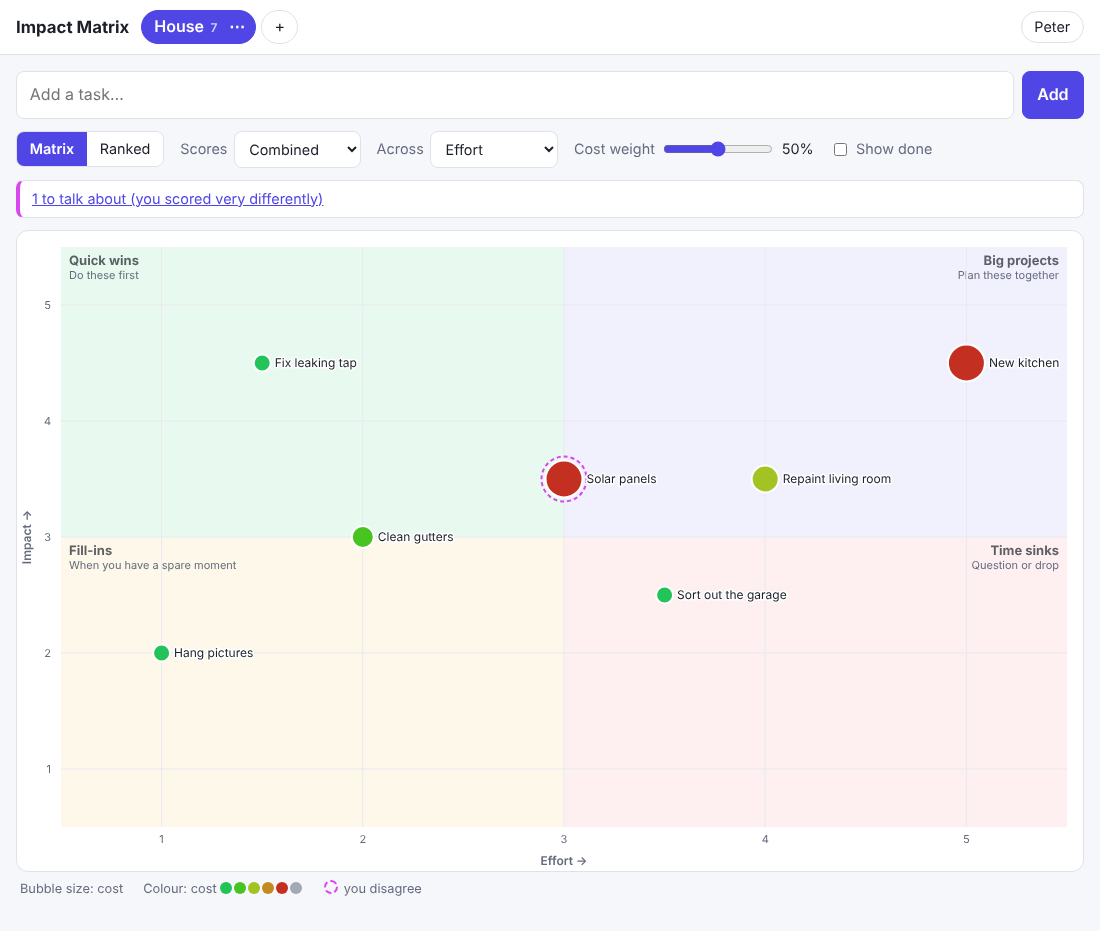
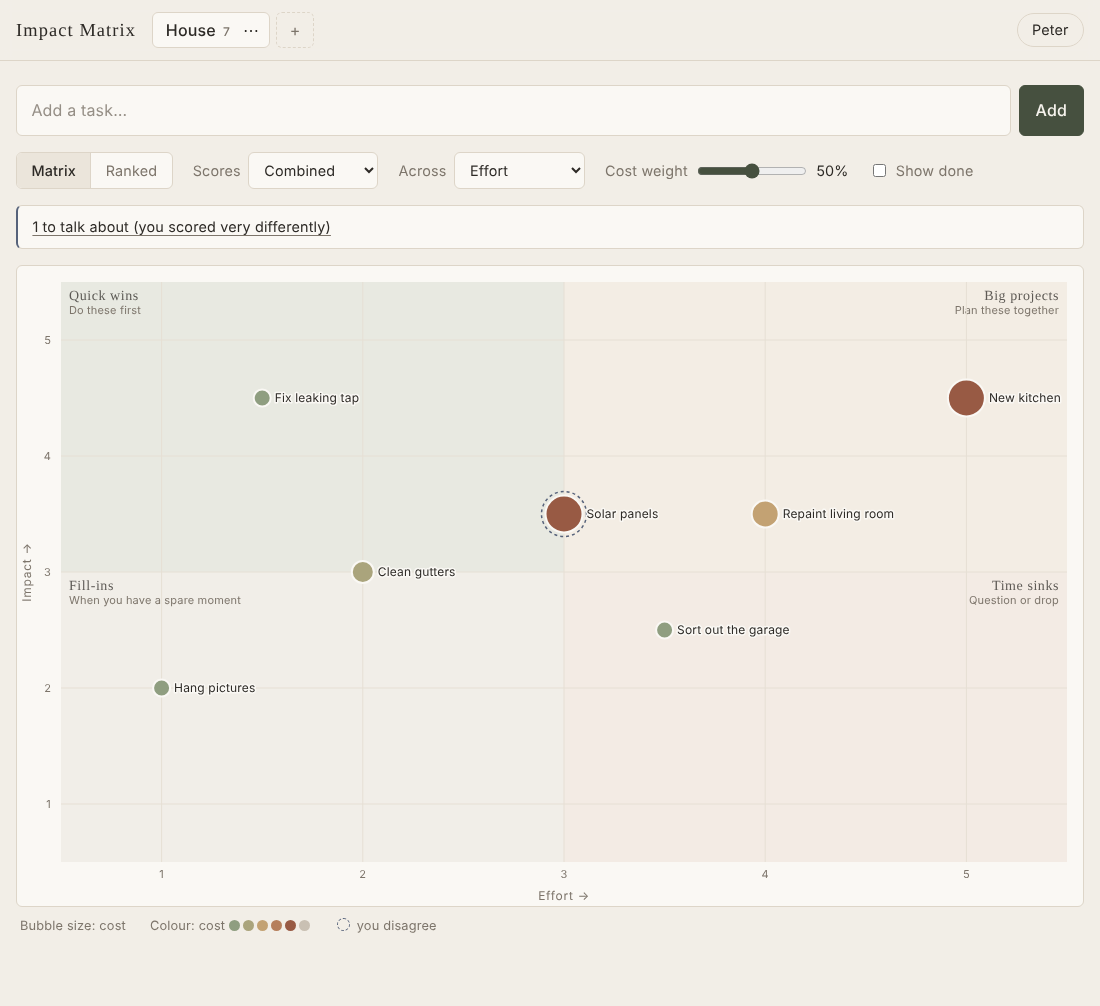
Restyle Impact Matrix in a Japandi aesthetic
Warm linen and rice-paper neutrals, sumi-ink text, a moss-charcoal
accent, thin lines, softer corners and serif headings. Cost is now
shown as an earth-tone scale from sage (cheap) to terracotta
(expensive) via CSS variables, so it adapts to dark mode. Updated the
icon, theme colour and README screenshots to match.

Claude-Session: https://claude.ai/code/session_017UNPLZKTZdfq9cyegrhye5

diff --git a/impact-matrix/public/styles.css b/impact-matrix/public/styles.css
@@ -1,39 +1,56 @@
+/* Japandi: warm natural neutrals, charcoal ink, muted earth accents,
+   thin lines, generous whitespace, quiet serif headings. */
 :root {
-  --bg: #f6f7fb;
-  --surface: #ffffff;
-  --text: #1c1f2a;
-  --muted: #646b7d;
-  --border: #dfe2ea;
-  --accent: #4f46e5;
-  --accent-text: #ffffff;
-  --danger: #c62828;
-  --grid: #e7e9f0;
-  --unscored: #a3a8b5;
-  --q-quickWin: rgba(34, 197, 94, 0.10);
-  --q-bigProject: rgba(79, 70, 229, 0.08);
-  --q-fillIn: rgba(234, 179, 8, 0.09);
-  --q-timeSink: rgba(239, 68, 68, 0.08);
-  --debate: #d946ef;
-  --radius: 12px;
+  --bg: #f2eee7;          /* linen */
+  --surface: #faf8f4;     /* rice paper */
+  --sunken: #ebe5db;      /* oat */
+  --text: #2d2a26;        /* sumi ink */
+  --muted: #7d756b;       /* stone */
+  --border: #ddd5c8;
+  --accent: #46503f;      /* moss charcoal */
+  --accent-text: #f7f4ee;
+  --danger: #9c4a36;
+  --grid: #e6dfd4;
+  --unscored: #c9c0b3;
+  --debate: #56627a;      /* aizome indigo */
+  --cost-1: #8f9e80;      /* sage */
+  --cost-2: #aaa47c;      /* olive */
+  --cost-3: #c3a273;      /* oak */
+  --cost-4: #b67f5c;      /* clay */
+  --cost-5: #985a44;      /* terracotta */
+  --q-quickWin: rgba(143, 158, 128, 0.16);
+  --q-bigProject: rgba(195, 162, 115, 0.12);
+  --q-fillIn: rgba(201, 192, 179, 0.18);
+  --q-timeSink: rgba(182, 127, 92, 0.10);
+  --radius: 6px;
+  --serif: "Iowan Old Style", "Palatino Linotype", Palatino, "Book Antiqua", Georgia, serif;
+  --sans: "Avenir Next", Avenir, "Segoe UI", system-ui, -apple-system, Roboto, sans-serif;
   color-scheme: light;
 }
 
 @media (prefers-color-scheme: dark) {
   :root {
-    --bg: #12141b;
-    --surface: #1b1e28;
-    --text: #e8eaf1;
-    --muted: #9aa1b2;
-    --border: #2d3140;
-    --accent: #818cf8;
-    --accent-text: #0e1020;
-    --danger: #ef5350;
-    --grid: #262a37;
-    --unscored: #5f6577;
-    --q-quickWin: rgba(34, 197, 94, 0.12);
-    --q-bigProject: rgba(129, 140, 248, 0.12);
-    --q-fillIn: rgba(234, 179, 8, 0.10);
-    --q-timeSink: rgba(239, 68, 68, 0.10);
+    --bg: #1c1a17;
+    --surface: #24211d;
+    --sunken: #2c2824;
+    --text: #ebe5da;
+    --muted: #a29889;
+    --border: #39342e;
+    --accent: #b3bea5;
+    --accent-text: #1c1a17;
+    --danger: #d38a72;
+    --grid: #322d28;
+    --unscored: #5e574e;
+    --debate: #93a1bd;
+    --cost-1: #9aab8a;
+    --cost-2: #b5ae84;
+    --cost-3: #cdaa78;
+    --cost-4: #c58d69;
+    --cost-5: #b36c53;
+    --q-quickWin: rgba(154, 171, 138, 0.12);
+    --q-bigProject: rgba(205, 170, 120, 0.09);
+    --q-fillIn: rgba(162, 152, 137, 0.08);
+    --q-timeSink: rgba(197, 141, 105, 0.09);
     color-scheme: dark;
   }
 }
@@ -45,49 +62,52 @@ body {
   margin: 0;
   background: var(--bg);
   color: var(--text);
-  font: 16px/1.45 system-ui, -apple-system, "Segoe UI", Roboto, sans-serif;
+  font: 400 16px/1.55 var(--sans);
+  letter-spacing: .01em;
   -webkit-text-size-adjust: 100%;
 }
 
-h1, h2, h3 { margin: 0 0 .5rem; line-height: 1.2; }
-h3 { font-size: .95rem; }
+h1, h2, h3 { margin: 0 0 .5rem; line-height: 1.25; font-family: var(--serif); font-weight: 500; letter-spacing: .02em; }
+h1 { font-size: 1.6rem; }
+h3 { font-size: 1rem; }
 .muted { color: var(--muted); }
 .error { color: var(--danger); }
 
-button, input, select, textarea {
-  font: inherit;
-  color: inherit;
-}
+button, input, select, textarea { font: inherit; color: inherit; letter-spacing: inherit; }
 
 button {
   cursor: pointer;
   border: 1px solid var(--border);
   background: var(--surface);
-  border-radius: 8px;
-  padding: .5rem .9rem;
+  border-radius: var(--radius);
+  padding: .5rem 1rem;
+  transition: background-color .15s, border-color .15s, color .15s;
 }
-button.primary { background: var(--accent); border-color: var(--accent); color: var(--accent-text); font-weight: 600; }
+button:hover { border-color: var(--muted); }
+button.primary { background: var(--accent); border-color: var(--accent); color: var(--accent-text); font-weight: 500; }
+button.primary:hover { filter: brightness(1.08); }
 button.danger { color: var(--danger); }
-button.link { border: 0; background: none; padding: 0; color: var(--accent); text-decoration: underline; }
-button.icon { border: 0; background: none; font-size: 1.1rem; padding: .25rem .5rem; }
-button.big { width: 100%; padding: .9rem; font-size: 1.05rem; }
+button.link { border: 0; background: none; padding: 0; color: var(--text); text-decoration: underline; text-decoration-color: var(--muted); text-underline-offset: 3px; }
+button.icon { border: 0; background: none; font-size: 1.1rem; padding: .25rem .5rem; color: var(--muted); }
+button.big { width: 100%; padding: .9rem; font-size: 1.05rem; font-family: var(--serif); }
 button:focus-visible, input:focus-visible, select:focus-visible, textarea:focus-visible, .dot:focus-visible {
-  outline: 2px solid var(--accent);
+  outline: 1.5px solid var(--accent);
   outline-offset: 2px;
 }
 
 input, select, textarea {
   border: 1px solid var(--border);
   background: var(--surface);
-  border-radius: 8px;
-  padding: .5rem .65rem;
+  border-radius: var(--radius);
+  padding: .5rem .7rem;
   min-width: 0;
 }
+input::placeholder, textarea::placeholder { color: var(--muted); opacity: .8; }
 textarea { width: 100%; resize: vertical; }
 
 .screen { min-height: 100vh; display: grid; place-items: center; padding: 16px; }
-.card { background: var(--surface); border: 1px solid var(--border); border-radius: var(--radius); padding: 1.25rem; }
-.narrow { width: 100%; max-width: 420px; display: grid; gap: .75rem; margin: 2rem auto; }
+.card { background: var(--surface); border: 1px solid var(--border); border-radius: var(--radius); padding: 1.75rem; }
+.narrow { width: 100%; max-width: 420px; display: grid; gap: 1rem; margin: 2.5rem auto; }
 .stack { display: grid; gap: .5rem; }
 .row { display: flex; gap: .5rem; }
 .row input { flex: 1; }
@@ -95,41 +115,43 @@ textarea { width: 100%; resize: vertical; }
 /* ---- top bar & tabs ---- */
 .topbar {
   position: sticky; top: 0; z-index: 5;
-  display: flex; align-items: center; gap: .75rem;
-  padding: .6rem 16px;
-  background: var(--surface);
+  display: flex; align-items: center; gap: 1rem;
+  padding: .75rem 16px;
+  background: color-mix(in srgb, var(--bg) 92%, transparent);
+  backdrop-filter: blur(6px);
   border-bottom: 1px solid var(--border);
 }
-.brand { font-size: 1.05rem; margin: 0; white-space: nowrap; }
-.tabs { display: flex; gap: .35rem; overflow-x: auto; flex: 1; scrollbar-width: none; }
-.tab { display: flex; align-items: center; border-radius: 999px; border: 1px solid var(--border); white-space: nowrap; }
-.tab button { border: 0; background: none; border-radius: 999px; padding: .3rem .75rem; }
-.tab.active { background: var(--accent); border-color: var(--accent); }
-.tab.active button { color: var(--accent-text); font-weight: 600; }
+.brand { font-size: 1.15rem; margin: 0; white-space: nowrap; letter-spacing: .06em; }
+.tabs { display: flex; gap: .4rem; overflow-x: auto; flex: 1; scrollbar-width: none; }
+.tab { display: flex; align-items: center; border-radius: var(--radius); border: 1px solid transparent; white-space: nowrap; }
+.tab button { border: 0; background: none; border-radius: var(--radius); padding: .3rem .8rem; color: var(--muted); }
+.tab.active { background: var(--surface); border-color: var(--border); }
+.tab.active button { color: var(--text); font-weight: 500; }
 .tab .tab-menu { padding: .3rem .6rem .3rem 0; }
-.tab .count { margin-left: .4rem; font-size: .75rem; opacity: .75; }
-.tab.add { border-radius: 999px; padding: .3rem .75rem; }
-.chip { border-radius: 999px; padding: .3rem .8rem; white-space: nowrap; font-size: .9rem; }
+.tab .count { margin-left: .45rem; font-size: .75rem; color: var(--muted); }
+.tab.add { border: 1px dashed var(--border); border-radius: var(--radius); padding: .3rem .8rem; background: none; color: var(--muted); }
+.chip { border-radius: 999px; padding: .3rem .9rem; white-space: nowrap; font-size: .9rem; background: none; }
 
-main { max-width: 1100px; margin: 0 auto; padding: 16px; }
+main { max-width: 1100px; margin: 0 auto; padding: 24px 16px 48px; }
 
-.add-item { display: flex; gap: .5rem; margin-bottom: .75rem; }
-.add-item input { flex: 1; padding: .7rem .8rem; }
+.add-item { display: flex; gap: .5rem; margin-bottom: 1rem; }
+.add-item input { flex: 1; padding: .75rem .9rem; }
 
 /* ---- toolbar ---- */
-.toolbar { display: flex; flex-wrap: wrap; gap: .5rem 1rem; align-items: center; margin-bottom: .75rem; font-size: .9rem; }
-.control { display: inline-flex; align-items: center; gap: .4rem; color: var(--muted); }
+.toolbar { display: flex; flex-wrap: wrap; gap: .6rem 1.25rem; align-items: center; margin-bottom: 1rem; font-size: .9rem; }
+.control { display: inline-flex; align-items: center; gap: .45rem; color: var(--muted); }
 .control select, .control input { color: var(--text); }
-.control input[type=range] { width: 110px; padding: 0; accent-color: var(--accent); }
+.control input[type=range] { width: 110px; padding: 0; border: 0; background: none; accent-color: var(--accent); }
 .control output { min-width: 3ch; color: var(--text); }
 .check input { accent-color: var(--accent); }
-.segmented { display: inline-flex; border: 1px solid var(--border); border-radius: 8px; overflow: hidden; }
-.segmented button { border: 0; border-radius: 0; padding: .4rem .8rem; }
-.segmented button.on { background: var(--accent); color: var(--accent-text); font-weight: 600; }
+.segmented { display: inline-flex; border: 1px solid var(--border); border-radius: var(--radius); overflow: hidden; background: var(--surface); }
+.segmented button { border: 0; border-radius: 0; padding: .4rem .9rem; background: none; color: var(--muted); }
+.segmented button + button { border-left: 1px solid var(--border); }
+.segmented button.on { background: var(--sunken); color: var(--text); font-weight: 500; }
 
 .banner {
-  background: var(--surface); border: 1px solid var(--border); border-left: 4px solid var(--debate);
-  border-radius: 8px; padding: .5rem .75rem; margin-bottom: .75rem; font-size: .9rem;
+  background: var(--surface); border: 1px solid var(--border); border-left: 2px solid var(--debate);
+  border-radius: var(--radius); padding: .6rem .9rem; margin-bottom: 1rem; font-size: .9rem;
 }
 
 /* ---- matrix ---- */
@@ -139,47 +161,47 @@ main { max-width: 1100px; margin: 0 auto; padding: 16px; }
 .quad.q-bigProject { fill: var(--q-bigProject); }
 .quad.q-fillIn { fill: var(--q-fillIn); }
 .quad.q-timeSink { fill: var(--q-timeSink); }
-.quad-label { font-size: 13px; font-weight: 700; fill: var(--text); opacity: .7; }
+.quad-label { font-family: var(--serif); font-size: 14px; font-weight: 500; letter-spacing: .04em; fill: var(--text); opacity: .75; }
 .quad-hint { font-size: 11px; fill: var(--muted); }
 .grid { stroke: var(--grid); stroke-width: 1; }
 .tick { font-size: 11px; fill: var(--muted); }
-.axis-label { font-size: 12px; font-weight: 600; fill: var(--muted); }
+.axis-label { font-size: 12px; letter-spacing: .06em; fill: var(--muted); }
 .dot { cursor: pointer; }
-.dot circle { stroke: var(--surface); stroke-width: 2; transition: r .15s; }
+.dot circle { stroke: var(--surface); stroke-width: 2; }
 .dot circle.no-cost { stroke: var(--muted); stroke-dasharray: 3 2; }
-.dot .debate-ring { fill: none; stroke: var(--debate); stroke-width: 2; stroke-dasharray: 4 3; }
+.dot .debate-ring { fill: none; stroke: var(--debate); stroke-width: 1.5; stroke-dasharray: 3 3; }
 .dot.done { opacity: .4; }
 .dot-label { font-size: 12px; fill: var(--text); paint-order: stroke; stroke: var(--surface); stroke-width: 3px; stroke-linejoin: round; }
-.dot:hover .dot-label { font-weight: 700; }
+.dot:hover .dot-label { font-weight: 600; }
 
-.legend { display: flex; flex-wrap: wrap; gap: .5rem 1.25rem; font-size: .8rem; color: var(--muted); padding: .5rem .25rem; }
-.legend i { display: inline-block; width: 12px; height: 12px; border-radius: 50%; margin-right: 2px; vertical-align: -1px; }
-.legend .ring-sample { border: 2px dashed var(--debate); width: 14px; height: 14px; }
+.legend { display: flex; flex-wrap: wrap; gap: .5rem 1.5rem; font-size: .8rem; color: var(--muted); padding: .6rem .25rem; }
+.legend i { display: inline-block; width: 11px; height: 11px; border-radius: 50%; margin-right: 3px; vertical-align: -1px; }
+.legend .ring-sample { border: 1.5px dashed var(--debate); width: 13px; height: 13px; }
 
-.unscored { margin-top: .5rem; }
+.unscored { margin-top: .75rem; }
 .pills { display: flex; flex-wrap: wrap; gap: .4rem; }
-.pill { border-radius: 999px; padding: .3rem .75rem; font-size: .9rem; border-style: dashed; }
+.pill { border-radius: 999px; padding: .3rem .85rem; font-size: .9rem; border-style: dashed; background: none; }
 
 /* ---- ranked list ---- */
-.ranked { list-style: none; margin: 0; padding: 0; display: grid; gap: .4rem; }
+.ranked { list-style: none; margin: 0; padding: 0; display: grid; gap: .5rem; }
 .row-item {
-  display: flex; align-items: center; gap: .6rem;
-  background: var(--surface); border: 1px solid var(--border); border-radius: 10px; padding: .55rem .75rem;
+  display: flex; align-items: center; gap: .75rem;
+  background: var(--surface); border: 1px solid var(--border); border-radius: var(--radius); padding: .75rem 1rem;
 }
-.row-item input[type=checkbox] { width: 20px; height: 20px; accent-color: var(--accent); flex: none; }
+.row-item input[type=checkbox] { width: 18px; height: 18px; accent-color: var(--accent); flex: none; }
 .row-item.done .row-title { text-decoration: line-through; color: var(--muted); }
-.row-main { flex: 1; border: 0; background: none; padding: 0; text-align: left; display: grid; gap: .15rem; min-width: 0; }
-.row-title { font-weight: 600; overflow-wrap: anywhere; }
-.row-meta { display: flex; flex-wrap: wrap; gap: .3rem .6rem; font-size: .8rem; color: var(--muted); align-items: center; }
-.score { font-weight: 700; font-variant-numeric: tabular-nums; min-width: 3.5ch; text-align: right; }
-.tag { font-size: .75rem; border-radius: 999px; padding: .05rem .5rem; color: var(--text); }
+.row-main { flex: 1; border: 0; background: none; padding: 0; text-align: left; display: grid; gap: .2rem; min-width: 0; }
+.row-title { font-weight: 500; overflow-wrap: anywhere; }
+.row-meta { display: flex; flex-wrap: wrap; gap: .3rem .7rem; font-size: .8rem; color: var(--muted); align-items: center; }
+.score { font-family: var(--serif); font-size: 1.1rem; font-variant-numeric: tabular-nums; min-width: 3.5ch; text-align: right; }
+.tag { font-size: .75rem; border-radius: 999px; padding: .05rem .55rem; color: var(--text); }
 .tag.q-quickWin { background: var(--q-quickWin); }
 .tag.q-bigProject { background: var(--q-bigProject); }
 .tag.q-fillIn { background: var(--q-fillIn); }
 .tag.q-timeSink { background: var(--q-timeSink); }
 .tag.debate { color: var(--debate); border: 1px solid var(--debate); }
-.tag.waiting { border: 1px dashed var(--border); }
-.empty { padding: 1rem; text-align: center; }
+.tag.waiting { border: 1px dashed var(--border); color: var(--muted); }
+.empty { padding: 1.5rem; text-align: center; }
 
 /* ---- dialog ---- */
 dialog {
@@ -189,38 +211,40 @@ dialog {
   border-radius: var(--radius);
   background: var(--surface);
   color: var(--text);
-  padding: 1rem;
+  padding: 1.25rem;
 }
-dialog::backdrop { background: rgba(10, 12, 20, .45); }
-#item-form { display: grid; gap: .9rem; }
+dialog::backdrop { background: rgba(45, 42, 38, .35); backdrop-filter: blur(2px); }
+#item-form { display: grid; gap: 1rem; }
 .dialog-head { display: flex; gap: .5rem; align-items: center; }
-.title-input { flex: 1; font-size: 1.15rem; font-weight: 700; }
-.score-row { display: grid; grid-template-columns: 4.2rem auto 1fr; align-items: center; gap: .6rem; margin-bottom: .4rem; }
-.dim { font-weight: 600; font-size: .9rem; }
-.pips { display: inline-flex; gap: .3rem; }
-.pips button { width: 2.2rem; height: 2.2rem; padding: 0; border-radius: 50%; font-weight: 600; }
+.title-input { flex: 1; font-family: var(--serif); font-size: 1.25rem; border-color: transparent; background: none; padding-left: 0; }
+.title-input:hover, .title-input:focus { border-color: var(--border); padding-left: .7rem; }
+.score-row { display: grid; grid-template-columns: 4.2rem auto 1fr; align-items: center; gap: .6rem; margin-bottom: .45rem; }
+.dim { font-size: .9rem; color: var(--muted); }
+.pips { display: inline-flex; gap: .35rem; }
+.pips button { width: 2.2rem; height: 2.2rem; padding: 0; border-radius: 50%; background: none; }
 .pips button.on { background: var(--accent); border-color: var(--accent); color: var(--accent-text); }
-.pips.dim-cost button.on { background: hsl(30 80% 50%); border-color: hsl(30 80% 50%); color: #fff; }
+.pips.dim-cost button.on { background: var(--cost-4); border-color: var(--cost-4); color: #fff; }
 .pip-label { font-size: .8rem; }
-.others { font-size: .9rem; display: grid; gap: .25rem; }
+.others { font-size: .9rem; display: grid; gap: .3rem; padding: .75rem .9rem; background: var(--sunken); border-radius: var(--radius); }
 .others p { margin: 0; }
-.field { display: grid; gap: .3rem; font-size: .9rem; color: var(--muted); }
-.field select, .field textarea, .field input { color: var(--text); }
+.others strong { font-weight: 500; }
+.others .tag { justify-self: start; }
+.field { display: grid; gap: .3rem; font-size: .85rem; color: var(--muted); }
+.field select, .field textarea, .field input { color: var(--text); font-size: 1rem; }
 .money { display: flex; align-items: center; gap: .4rem; }
 .money input { flex: 1; }
-.dialog-foot { display: flex; justify-content: space-between; gap: .5rem; }
+.dialog-foot { display: flex; justify-content: space-between; gap: .5rem; border-top: 1px solid var(--border); padding-top: 1rem; }
 
 .toast {
   position: fixed; left: 50%; bottom: 20px; transform: translateX(-50%);
-  background: var(--text); color: var(--bg); padding: .6rem 1rem; border-radius: 8px; z-index: 20;
+  background: var(--text); color: var(--bg); padding: .6rem 1.1rem; border-radius: var(--radius); z-index: 20;
   max-width: calc(100vw - 32px);
 }
 
 @media (max-width: 600px) {
   .brand { display: none; }
-  .toolbar { font-size: .85rem; }
+  .toolbar { font-size: .85rem; gap: .5rem 1rem; }
   .score-row { grid-template-columns: 3.6rem auto; }
   .pip-label { grid-column: 2; margin-top: -.25rem; }
   .pips button { width: 2.4rem; height: 2.4rem; }
 }
-.others .tag { justify-self: start; }

diff --git a/impact-matrix/public/app.js b/impact-matrix/public/app.js
@@ -116,9 +116,8 @@ function money(amount) {
 
 function costColor(cost) {
   if (cost == null) return 'var(--unscored)';
-  // green (cheap) → amber → red (expensive)
-  const hue = 140 - ((cost - 1) / 4) * 135;
-  return `hsl(${hue} 70% 45%)`;
+  // Earth tones from sage (cheap) to terracotta (expensive); averages round.
+  return `var(--cost-${Math.min(5, Math.max(1, Math.round(cost)))})`;
 }
 
 let toastTimer;

diff --git a/impact-matrix/public/index.html b/impact-matrix/public/index.html
@@ -4,7 +4,7 @@
   <meta charset="utf-8">
   <meta name="viewport" content="width=device-width, initial-scale=1, viewport-fit=cover">
   <title>Impact Matrix</title>
-  <meta name="theme-color" content="#4f46e5">
+  <meta name="theme-color" content="#f2eee7">
   <link rel="manifest" href="manifest.webmanifest">
   <link rel="icon" href="icon.svg" type="image/svg+xml">
   <link rel="apple-touch-icon" href="icon.svg">

diff --git a/impact-matrix/README.md b/impact-matrix/README.md
@@ -11,7 +11,7 @@ Each task gets three 1–5 scores **from each of you**:
 
 You can also note an estimated cost in money (€ by default).
 
-<img src="docs/desktop-matrix.png" alt="Matrix view on desktop" width="640"> <img src="docs/mobile-matrix.png" alt="Matrix view on a phone" width="200">
+<img src="docs/desktop-matrix.png" alt="Matrix view on desktop" width="640"> <img src="docs/mobile-matrix.png" alt="Matrix view on a phone" width="200"> <img src="docs/mobile-dark.png" alt="Matrix view on a phone in dark mode" width="200">
 
 ## What you get
 
@@ -28,7 +28,8 @@ You can also note an estimated cost in money (€ by default).
   differ by 2 or more (a dashed pink ring marks them as worth talking about).
 - **Several lists** (House, Garden, Holiday…) with live sync: a change on one phone shows up
   on the other right away.
-- Works on phones, has dark mode and can be added to the home screen.
+- Calm Japandi styling (linen, ink and earth tones) that works on phones, has a dark mode
+  and can be added to the home screen.
 
 ## Running it
 
